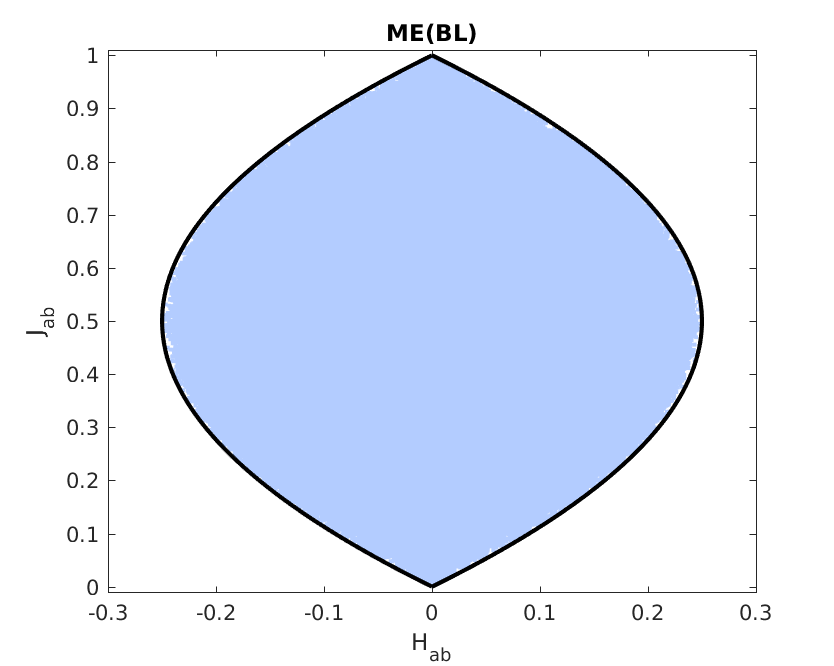
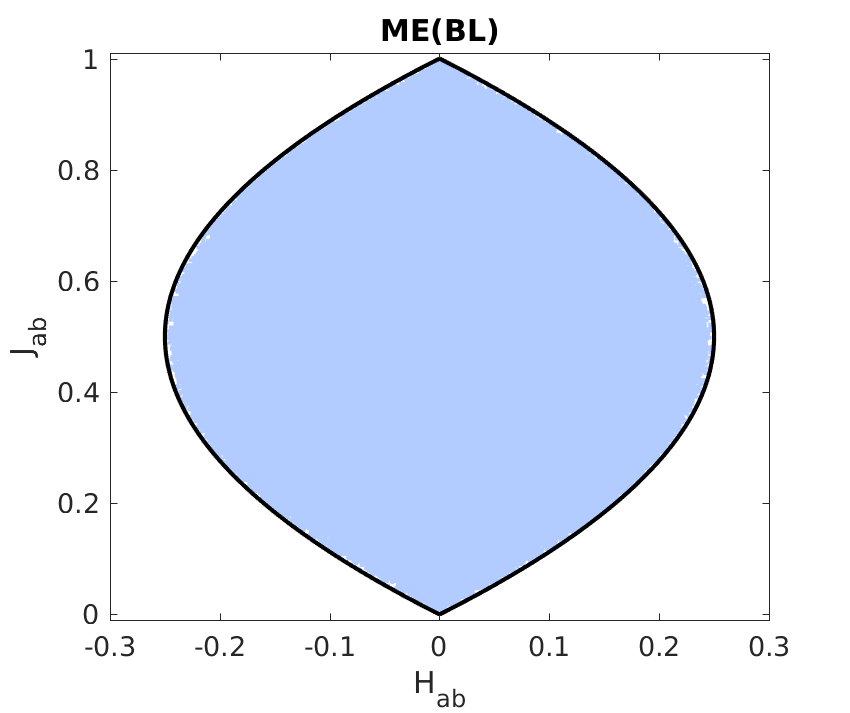
Cosmetic changes.

diff --git a/Documents/M1/realizableFermionicM1/figures/MabWithDiffClosure.m b/Documents/M1/realizableFermionicM1/figures/MabWithDiffClosure.m
@@ -70,7 +70,8 @@ xxM_MB = - yy;
 plot( xxP_FD, yy, '-k', 'linewidth', 2 )
 plot( xxM_FD, yy, '-k', 'linewidth', 2 )
 hold off
-axis([-0.3 0.3 0.0-1.d-2 1.0+1.d-2]);
+axis([-0.3 0.300001 0.0-1.d-2 1.0+1.d-2]);
+set(gca,'FontSize',13);
 xlabel('H_{ab}');
 ylabel('J_{ab}');
 title([ Closure ]);
